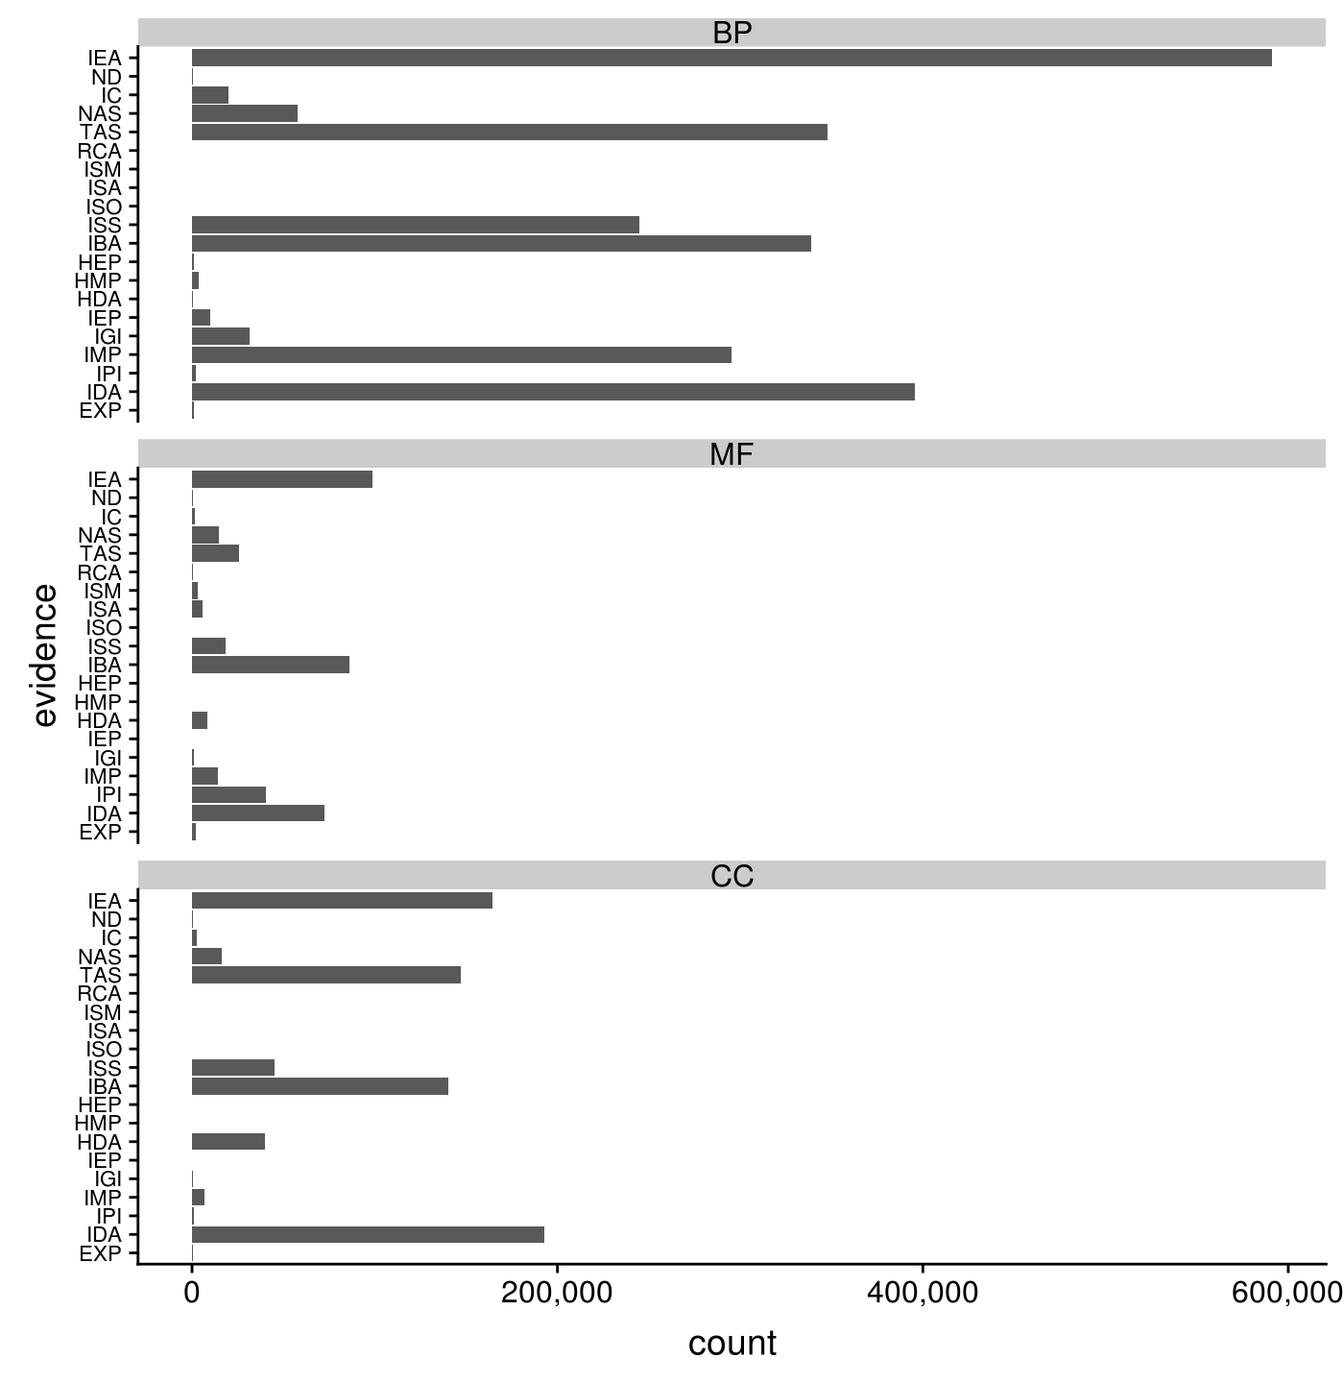
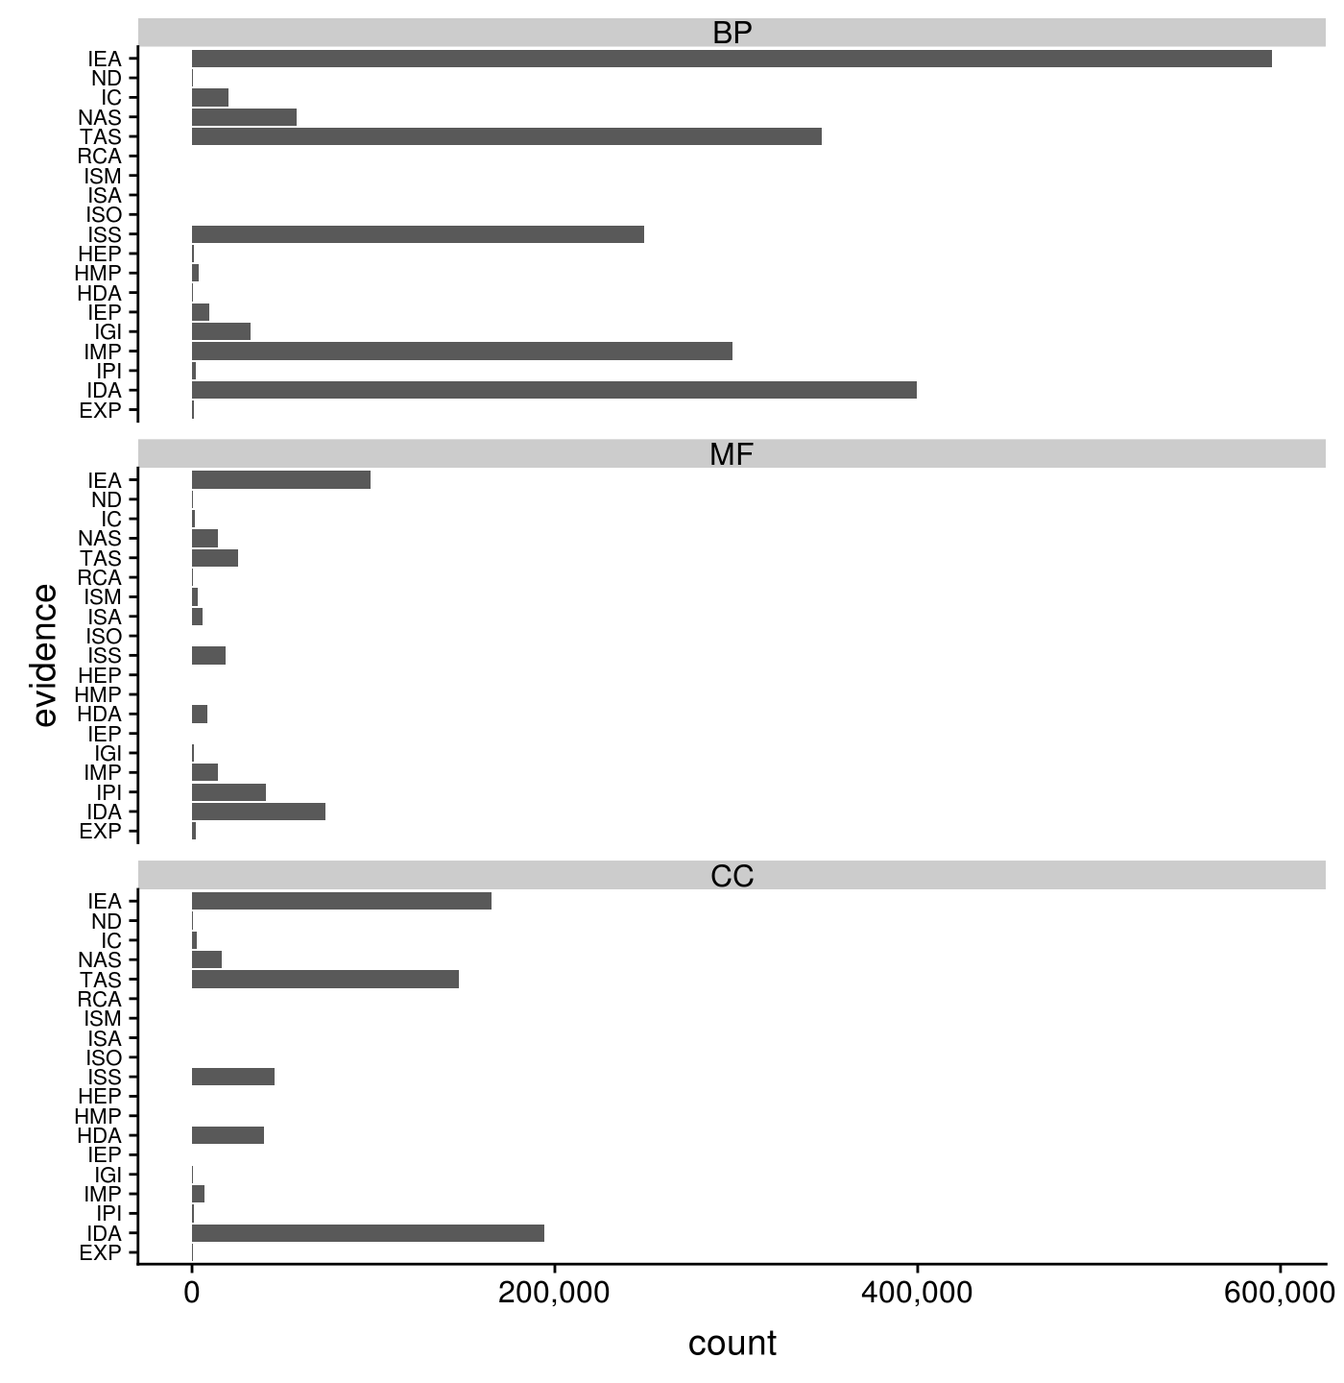
Built site for unisets: 0.99.0@9dbd08d

diff --git a/articles/unisets.html b/articles/unisets.html
@@ -94,7 +94,7 @@
       Fred Hutchinson Cancer Research Center, Seattle, WA, USA, 98115<br><a class="author_email" href="mailto:#"></a><a href="mailto:robert.amezquita@fredhutch.org">robert.amezquita@fredhutch.org</a>
       </address>
                   
-            <h4 class="date">22 April 2019</h4>
+            <h4 class="date">29 April 2019</h4>
       
       <small class="dont-index">Source: <a href="https://github.com/kevinrue/unisets/blob/master/vignettes/unisets.Rmd"><code>vignettes/unisets.Rmd</code></a></small>
       <div class="hidden name"><code>unisets.Rmd</code></div>
@@ -247,11 +247,11 @@
 <pre><code>## FuzzySets with 5 relations between 4 elements and 2 sets
 ##       element         set      extra1    extra2 membership
 ##   &lt;character&gt; &lt;character&gt; &lt;character&gt; &lt;numeric&gt;  &lt;numeric&gt;
-## 1           A    geneset1         ABC         0       0.77
-## 2           B    geneset1         ABC      0.25       0.17
-## 3           B    geneset2         ABC       0.5       0.62
-## 4           C    geneset2         DEF      0.75       0.74
-## 5           D    geneset2         DEF         1       0.45
+## 1           A    geneset1         ABC         0       0.85
+## 2           B    geneset1         ABC      0.25       0.48
+## 3           B    geneset2         ABC       0.5       0.76
+## 4           C    geneset2         DEF      0.75       0.29
+## 5           D    geneset2         DEF         1       0.75
 ## 
 ## @elementData
 ## IdVector of length 4 with 4 unique identifiers
@@ -264,28 +264,28 @@
 ## Metadata: SetStat1, SetInfo1 (2 columns)</code></pre>
 <p>The <code>membership</code> function associated with each relation can be directly obtained and modified using the corresponding accessor.</p>
 <div class="sourceCode" id="cb19"><pre class="sourceCode r"><code class="sourceCode r"><a class="sourceLine" id="cb19-1" data-line-number="1"><span class="kw"><a href="../reference/FuzzyHits-methods.html">membership</a></span>(fuzzy_sets)</a></code></pre></div>
-<pre><code>## [1] 0.77 0.17 0.62 0.74 0.45</code></pre>
+<pre><code>## [1] 0.85 0.48 0.76 0.29 0.75</code></pre>
 <p>Identically to <code>BaseSets</code>, the <code>relations</code> accessor returns fuzzy relations as <code>Hits</code>, while the <code>as</code> method may be used to format the information as a <code>DataFrame</code>, both of which include the <code>"membership"</code> column, as metadata column and nested under <code>"relationData"</code>, respectively.</p>
 <div class="sourceCode" id="cb21"><pre class="sourceCode r"><code class="sourceCode r"><a class="sourceLine" id="cb21-1" data-line-number="1"><span class="kw"><a href="../reference/BaseSets-methods.html">relations</a></span>(fuzzy_sets)</a></code></pre></div>
 <pre><code>## FuzzyHits object with 5 hits and 3 metadata columns:
 ##            from        to |      extra1    extra2 membership
 ##       &lt;integer&gt; &lt;integer&gt; | &lt;character&gt; &lt;numeric&gt;  &lt;numeric&gt;
-##   [1]         1         1 |         ABC         0       0.77
-##   [2]         2         1 |         ABC      0.25       0.17
-##   [3]         2         2 |         ABC       0.5       0.62
-##   [4]         3         2 |         DEF      0.75       0.74
-##   [5]         4         2 |         DEF         1       0.45
+##   [1]         1         1 |         ABC         0       0.85
+##   [2]         2         1 |         ABC      0.25       0.48
+##   [3]         2         2 |         ABC       0.5       0.76
+##   [4]         3         2 |         DEF      0.75       0.29
+##   [5]         4         2 |         DEF         1       0.75
 ##   -------
 ##   nLnode: 4 / nRnode: 2</code></pre>
 <div class="sourceCode" id="cb23"><pre class="sourceCode r"><code class="sourceCode r"><a class="sourceLine" id="cb23-1" data-line-number="1"><span class="kw">as</span>(fuzzy_sets, <span class="st">"DataFrame"</span>)</a></code></pre></div>
 <pre><code>## DataFrame with 5 rows and 5 columns
 ##      element        set  relationData elementData     setData
 ##   &lt;IdVector&gt; &lt;IdVector&gt;   &lt;DataFrame&gt; &lt;DataFrame&gt; &lt;DataFrame&gt;
-## 1          A   geneset1    ABC:0:0.77         1:a     100:abc
-## 2          B   geneset1 ABC:0.25:0.17         2:b     100:abc
-## 3          B   geneset2  ABC:0.5:0.62         2:b     200:def
-## 4          C   geneset2 DEF:0.75:0.74         3:c     200:def
-## 5          D   geneset2    DEF:1:0.45         4:d     200:def</code></pre>
+## 1          A   geneset1    ABC:0:0.85         1:a     100:abc
+## 2          B   geneset1 ABC:0.25:0.48         2:b     100:abc
+## 3          B   geneset2  ABC:0.5:0.76         2:b     200:def
+## 4          C   geneset2 DEF:0.75:0.29         3:c     200:def
+## 5          D   geneset2    DEF:1:0.75         4:d     200:def</code></pre>
 </div>
 <div id="the-gosets-class" class="section level2">
 <h2 class="hasAnchor">
@@ -315,16 +315,15 @@
 ## Metadata: SetStat1, SetInfo1 (2 columns)</code></pre>
 <p>Similarly, the <code>subset</code> method can be also applied to objects derived from <code>BaseSets</code>, such as <code>FuzzySets</code>, in which case the logical expression may also refer to the additional <code>"membership"</code> metadata that is guaranted by the class validity method.</p>
 <div class="sourceCode" id="cb27"><pre class="sourceCode r"><code class="sourceCode r"><a class="sourceLine" id="cb27-1" data-line-number="1"><span class="kw"><a href="https://www.rdocumentation.org/packages/base/topics/subset">subset</a></span>(fuzzy_sets, set <span class="op">==</span><span class="st"> "geneset2"</span> <span class="op">&amp;</span><span class="st"> </span>membership <span class="op">&gt;</span><span class="st"> </span><span class="fl">0.3</span>)</a></code></pre></div>
-<pre><code>## FuzzySets with 3 relations between 3 elements and 1 set
+<pre><code>## FuzzySets with 2 relations between 2 elements and 1 set
 ##       element         set      extra1    extra2 membership
 ##   &lt;character&gt; &lt;character&gt; &lt;character&gt; &lt;numeric&gt;  &lt;numeric&gt;
-## 1           B    geneset2         ABC       0.5       0.62
-## 2           C    geneset2         DEF      0.75       0.74
-## 3           D    geneset2         DEF         1       0.45
+## 1           B    geneset2         ABC       0.5       0.76
+## 2           D    geneset2         DEF         1       0.75
 ## 
 ## @elementData
-## IdVector of length 3 with 3 unique identifiers
-## Ids: B, C, D
+## IdVector of length 2 with 2 unique identifiers
+## Ids: B, D
 ## Metadata: GeneStat1, GeneInfo1 (2 columns)
 ## 
 ## @setData
@@ -368,9 +367,9 @@
 <a class="sourceLine" id="cb37-3" data-line-number="3">fuzzy_matrix</a></code></pre></div>
 <pre><code>##   geneset1 geneset2
 ## A     0.00       NA
-## B     0.17     0.62
-## C       NA     0.74
-## D       NA     0.45</code></pre>
+## B     0.48     0.76
+## C       NA     0.29
+## D       NA     0.75</code></pre>
 </div>
 </div>
 <div id="convert-from" class="section level1">
@@ -408,10 +407,10 @@
 ##       element         set membership
 ##   &lt;character&gt; &lt;character&gt;  &lt;numeric&gt;
 ## 1           A    geneset1          0
-## 2           B    geneset1       0.17
-## 3           B    geneset2       0.62
-## 4           C    geneset2       0.74
-## 5           D    geneset2       0.45
+## 2           B    geneset1       0.48
+## 3           B    geneset2       0.76
+## 4           C    geneset2       0.29
+## 5           D    geneset2       0.75
 ## 
 ## @elementData
 ## IdVector of length 4 with 4 unique identifiers
@@ -542,7 +541,7 @@
 <div id="session-info" class="section level1 unnumbered">
 <h1 class="hasAnchor">
 <a href="#session-info" class="anchor"></a>Session info</h1>
-<pre><code>## R Under development (unstable) (2019-04-21 r76409)
+<pre><code>## R Under development (unstable) (2019-04-29 r76435)
 ## Platform: x86_64-pc-linux-gnu (64-bit)
 ## Running under: Ubuntu 14.04.5 LTS
 ## 
@@ -563,13 +562,13 @@
 ## [8] methods   base     
 ## 
 ## other attached packages:
-## [1] unisets_0.99.0      S4Vectors_0.21.23   BiocGenerics_0.29.2
+## [1] unisets_0.99.0      S4Vectors_0.21.24   BiocGenerics_0.29.2
 ## [4] BiocStyle_2.11.0   
 ## 
 ## loaded via a namespace (and not attached):
 ##  [1] SummarizedExperiment_1.13.0 xfun_0.6                   
 ##  [3] reshape2_1.4.3              lattice_0.20-38            
-##  [5] htmltools_0.3.6             rtracklayer_1.43.3         
+##  [5] htmltools_0.3.6             rtracklayer_1.43.4         
 ##  [7] yaml_2.2.0                  blob_1.1.1                 
 ##  [9] XML_3.98-1.19               rlang_0.3.4                
 ## [11] pkgdown_1.3.0               DBI_1.0.0                  
@@ -581,7 +580,7 @@
 ## [23] evaluate_0.13               Biobase_2.43.1             
 ## [25] knitr_1.22                  IRanges_2.17.5             
 ## [27] GenomeInfoDb_1.19.3         AnnotationDbi_1.45.1       
-## [29] GSEABase_1.45.0             Rcpp_1.0.1                 
+## [29] GSEABase_1.45.1             Rcpp_1.0.1                 
 ## [31] xtable_1.8-4                backports_1.1.3            
 ## [33] BiocManager_1.30.4          DelayedArray_0.9.9         
 ## [35] desc_1.2.0                  graph_1.61.1               

diff --git a/articles/bioc-annotation.html b/articles/bioc-annotation.html
@@ -94,7 +94,7 @@
       Fred Hutchinson Cancer Research Center, Seattle, WA, USA, 98115<br><a class="author_email" href="mailto:#"></a><a href="mailto:robert.amezquita@fredhutch.org">robert.amezquita@fredhutch.org</a>
       </address>
                   
-            <h4 class="date">22 April 2019</h4>
+            <h4 class="date">29 April 2019</h4>
       
       <small class="dont-index">Source: <a href="https://github.com/kevinrue/unisets/blob/master/vignettes/bioc-annotation.Rmd"><code>vignettes/bioc-annotation.Rmd</code></a></small>
       <div class="hidden name"><code>bioc-annotation.Rmd</code></div>
@@ -129,7 +129,7 @@
 <div class="sourceCode" id="cb3"><pre class="sourceCode r"><code class="sourceCode r"><a class="sourceLine" id="cb3-1" data-line-number="1"><span class="kw"><a href="https://www.rdocumentation.org/packages/base/topics/library">library</a></span>(unisets)</a>
 <a class="sourceLine" id="cb3-2" data-line-number="2">go_sets &lt;-<span class="st"> </span><span class="kw"><a href="../reference/io.html">import</a></span>(org.Hs.egGO)</a>
 <a class="sourceLine" id="cb3-3" data-line-number="3">go_sets</a></code></pre></div>
-<pre><code>## GOSets with 317728 relations between 20456 elements and 18096 sets
+<pre><code>## GOSets with 267783 relations between 20207 elements and 17496 sets
 ##       element         set evidence ontology
 ##   &lt;character&gt; &lt;character&gt; &lt;factor&gt; &lt;factor&gt;
 ## 1           1  GO:0002576      TAS       BP
@@ -145,18 +145,18 @@
 ## 5   112441434  GO:0005515      IPI       MF
 ## 
 ## @elementData
-## EntrezIdVector of length 20456 with 20456 unique identifiers
+## EntrezIdVector of length 20207 with 20207 unique identifiers
 ## Ids: 1, 10, 100, 1000, ...
 ## Metadata:  (0 columns)
 ## 
 ## @setData
-## GOIdVector of length 18096 with 18096 unique identifiers
+## GOIdVector of length 17496 with 17496 unique identifiers
 ## Ids: GO:0002576, GO:0008150, GO:0043312, GO:0001869, ...
 ## Metadata: GOID, DEFINITION, ONTOLOGY, TERM (4 columns)</code></pre>
 <p>Notice how the <code>"element"</code> information is typed as <code>EntrezIdVector</code>, allowing the type of identifier to affect downstream methods (e.g., pathway analyses). The <code>EntrezIdVector</code> class directly inherits from the <code>IdVector</code> class, and benefits of all the methods associated with the parent class.</p>
 <p>It is also useful to note that the conversion of <code>Go3AnnDbBimap</code> Gene Ontology maps to <em><a href="https://github.com/kevinrue/unisets">unisets</a></em> objects automatically fetches metadata for each GO identifier from the <code>GO.db</code> package, if installed. The metadata is stored it in the <code>mcols</code> (metadata-columns) slot of the <code>setData</code> slot of the object returned. This metadata can be accessed using the accessor method of the same name.</p>
 <div class="sourceCode" id="cb5"><pre class="sourceCode r"><code class="sourceCode r"><a class="sourceLine" id="cb5-1" data-line-number="1"><span class="kw">mcols</span>(<span class="kw"><a href="../reference/BaseSets-methods.html">setData</a></span>(go_sets))[, <span class="kw"><a href="https://www.rdocumentation.org/packages/base/topics/c">c</a></span>(<span class="st">"ONTOLOGY"</span>, <span class="st">"TERM"</span>)]</a></code></pre></div>
-<pre><code>## DataFrame with 18096 rows and 2 columns
+<pre><code>## DataFrame with 17496 rows and 2 columns
 ##               ONTOLOGY
 ##            &lt;character&gt;
 ## GO:0002576          BP
@@ -165,9 +165,9 @@
 ## GO:0001869          BP
 ## GO:0007597          BP
 ## ...                ...
+## GO:0035716          MF
 ## GO:0047349          MF
 ## GO:0070567          MF
-## GO:0047547          MF
 ## GO:0047613          MF
 ## GO:0050337          MF
 ##                                                                    TERM
@@ -178,9 +178,9 @@
 ## GO:0001869 negative regulation of complement activation, lectin pathway
 ## GO:0007597                         blood coagulation, intrinsic pathway
 ## ...                                                                 ...
+## GO:0035716                      chemokine (C-C motif) ligand 12 binding
 ## GO:0047349          D-ribitol-5-phosphate cytidylyltransferase activity
 ## GO:0070567                                cytidylyltransferase activity
-## GO:0047547                         2-methylcitrate dehydratase activity
 ## GO:0047613                             aconitate decarboxylase activity
 ## GO:0050337                 thiosulfate-thiol sulfurtransferase activity</code></pre>
 <p>We may then visualize the distribution of set sizes, on a log<sub>10</sub> scale.</p>
@@ -198,7 +198,7 @@
 <pre><code>## Coercing evidence to factor</code></pre>
 <pre><code>## Coercing ontology to factor</code></pre>
 <div class="sourceCode" id="cb12"><pre class="sourceCode r"><code class="sourceCode r"><a class="sourceLine" id="cb12-1" data-line-number="1"><span class="kw"><a href="https://www.rdocumentation.org/packages/base/topics/format">format</a></span>(<span class="kw"><a href="https://www.rdocumentation.org/packages/base/topics/length">length</a></span>(go_sets), <span class="dt">big.mark=</span><span class="st">","</span>)</a></code></pre></div>
-<pre><code>## [1] "3,493,920"</code></pre>
+<pre><code>## [1] "2,946,160"</code></pre>
 <p>We can also examine the count of relations associated with each evidence code in each Gene Ontology namespace.</p>
 <div class="sourceCode" id="cb14"><pre class="sourceCode r"><code class="sourceCode r"><a class="sourceLine" id="cb14-1" data-line-number="1"><span class="kw"><a href="https://www.rdocumentation.org/packages/ggplot2/topics/ggplot">ggplot</a></span>(<span class="kw"><a href="../reference/BaseSets-methods.html">as.data.frame</a></span>(go_sets)) <span class="op">+</span></a>
 <a class="sourceLine" id="cb14-2" data-line-number="2"><span class="st">    </span><span class="kw"><a href="https://www.rdocumentation.org/packages/ggplot2/topics/geom_bar">geom_bar</a></span>(<span class="kw"><a href="https://www.rdocumentation.org/packages/ggplot2/topics/aes">aes</a></span>(evidence)) <span class="op">+</span><span class="st"> </span><span class="kw"><a href="https://www.rdocumentation.org/packages/ggplot2/topics/facet_wrap">facet_wrap</a></span>(<span class="op">~</span>ontology, <span class="dt">ncol =</span> <span class="dv">1</span>) <span class="op">+</span><span class="st"> </span><span class="kw"><a href="https://www.rdocumentation.org/packages/ggplot2/topics/coord_flip">coord_flip</a></span>() <span class="op">+</span></a>
@@ -211,7 +211,7 @@
 <div id="session-info" class="section level1 unnumbered">
 <h1 class="hasAnchor">
 <a href="#session-info" class="anchor"></a>Session info</h1>
-<pre><code>## R Under development (unstable) (2019-04-21 r76409)
+<pre><code>## R Under development (unstable) (2019-04-29 r76435)
 ## Platform: x86_64-pc-linux-gnu (64-bit)
 ## Running under: Ubuntu 14.04.5 LTS
 ## 
@@ -233,8 +233,8 @@
 ## 
 ## other attached packages:
 ##  [1] cowplot_0.9.4        ggplot2_3.1.1        unisets_0.99.0      
-##  [4] org.Hs.eg.db_3.8.0   AnnotationDbi_1.45.1 IRanges_2.17.5      
-##  [7] S4Vectors_0.21.23    Biobase_2.43.1       BiocGenerics_0.29.2 
+##  [4] org.Hs.eg.db_3.8.2   AnnotationDbi_1.45.1 IRanges_2.17.5      
+##  [7] S4Vectors_0.21.24    Biobase_2.43.1       BiocGenerics_0.29.2 
 ## [10] BiocStyle_2.11.0    
 ## 
 ## loaded via a namespace (and not attached):
@@ -247,10 +247,10 @@
 ## [13] GenomicRanges_1.35.1        XVector_0.23.2             
 ## [15] colorspace_1.4-1            htmltools_0.3.6            
 ## [17] Matrix_1.2-17               plyr_1.8.4                 
-## [19] GSEABase_1.45.0             XML_3.98-1.19              
+## [19] GSEABase_1.45.1             XML_3.98-1.19              
 ## [21] pkgconfig_2.0.2             bookdown_0.9               
 ## [23] zlibbioc_1.29.0             xtable_1.8-4               
-## [25] GO.db_3.8.0                 scales_1.0.0               
+## [25] GO.db_3.8.2                 scales_1.0.0               
 ## [27] BiocParallel_1.17.19        tibble_2.1.1               
 ## [29] annotate_1.61.1             withr_2.1.2                
 ## [31] SummarizedExperiment_1.13.0 lazyeval_0.2.2             
@@ -269,7 +269,7 @@
 ## [57] DBI_1.0.0                   roxygen2_6.1.1             
 ## [59] reshape2_1.4.3              R6_2.4.0                   
 ## [61] GenomicAlignments_1.19.1    knitr_1.22                 
-## [63] rtracklayer_1.43.3          bit_1.1-14                 
+## [63] rtracklayer_1.43.4          bit_1.1-14                 
 ## [65] commonmark_1.7              rprojroot_1.3-2            
 ## [67] desc_1.2.0                  stringi_1.4.3              
 ## [69] Rcpp_1.0.1                  xfun_0.6</code></pre>

diff --git a/reference/IdVector-class.html b/reference/IdVector-class.html
@@ -187,19 +187,19 @@ Subclasses of <code>IdVector</code> may be defined to enable method dispatch acc
 
 <span class='fu'><a href='https://www.rdocumentation.org/packages/base/topics/library'>library</a></span>(<span class='no'>org.Hs.eg.db</span>)
 <span class='no'>eiv</span> <span class='kw'>&lt;-</span> <span class='fu'>EntrezIdVector</span>(<span class='fu'>keys</span>(<span class='no'>org.Hs.eg.db</span>, <span class='kw'>keytype</span><span class='kw'>=</span><span class='st'>"ENTREZID"</span>))
-<span class='no'>eiv</span></div><div class='output co'>#&gt; EntrezIdVector of length 61526 with 61526 unique identifiers
+<span class='no'>eiv</span></div><div class='output co'>#&gt; EntrezIdVector of length 61521 with 61521 unique identifiers
 #&gt; Ids: 1, 2, 3, 9, ...</div><div class='input'>
 <span class='co'># EnsemblIdVector ----</span>
 
 <span class='fu'><a href='https://www.rdocumentation.org/packages/base/topics/library'>library</a></span>(<span class='no'>org.Hs.eg.db</span>)
 <span class='no'>eiv</span> <span class='kw'>&lt;-</span> <span class='fu'>EnsemblIdVector</span>(<span class='fu'>keys</span>(<span class='no'>org.Hs.eg.db</span>, <span class='kw'>keytype</span><span class='kw'>=</span><span class='st'>"ENSEMBL"</span>))
-<span class='no'>eiv</span></div><div class='output co'>#&gt; EnsemblIdVector of length 49589 with 49589 unique identifiers
-#&gt; Ids: ENSG00000121410, ENSPTRG00000009663, ENSG00000175899, ENSG00000256069, ...</div><div class='input'>
+<span class='no'>eiv</span></div><div class='output co'>#&gt; EnsemblIdVector of length 28694 with 28694 unique identifiers
+#&gt; Ids: ENSG00000121410, ENSG00000175899, ENSG00000256069, ENSG00000171428, ...</div><div class='input'>
 <span class='co'># GOIdVector ----</span>
 
 <span class='fu'><a href='https://www.rdocumentation.org/packages/base/topics/library'>library</a></span>(<span class='no'>org.Hs.eg.db</span>)
 <span class='no'>giv</span> <span class='kw'>&lt;-</span> <span class='fu'>GOIdVector</span>(<span class='fu'>keys</span>(<span class='no'>org.Hs.eg.db</span>, <span class='kw'>keytype</span> <span class='kw'>=</span> <span class='st'>"GO"</span>))
-<span class='no'>giv</span></div><div class='output co'>#&gt; GOIdVector of length 18096 with 18096 unique identifiers
+<span class='no'>giv</span></div><div class='output co'>#&gt; GOIdVector of length 17496 with 17496 unique identifiers
 #&gt; Ids: GO:0002576, GO:0003674, GO:0005576, GO:0005615, ...</div></pre>
   </div>
   <div class="col-md-3 hidden-xs hidden-sm" id="sidebar">

diff --git a/reference/io.html b/reference/io.html
@@ -233,7 +233,7 @@ Certain subclasses of <code>BiMap</code> are supported: <code>Go3AnnDbBimap</cod
 <span class='co'># Import (Go3AnnDbBimap) ----</span>
 
 <span class='fu'><a href='https://www.rdocumentation.org/packages/base/topics/library'>library</a></span>(<span class='no'>org.Hs.eg.db</span>)
-<span class='no'>bs1</span> <span class='kw'>&lt;-</span> <span class='fu'>import</span>(<span class='no'>org.Hs.egGO</span>)</div><div class='output co'>#&gt; <span class='message'>'select()' returned 1:1 mapping between keys and columns</span></div><div class='output co'>#&gt; <span class='message'>Coercing evidence to factor</span></div><div class='output co'>#&gt; <span class='message'>Coercing ontology to factor</span></div><div class='input'><span class='no'>bs1</span></div><div class='output co'>#&gt; GOSets with 317728 relations between 20456 elements and 18096 sets
+<span class='no'>bs1</span> <span class='kw'>&lt;-</span> <span class='fu'>import</span>(<span class='no'>org.Hs.egGO</span>)</div><div class='output co'>#&gt; <span class='message'>'select()' returned 1:1 mapping between keys and columns</span></div><div class='output co'>#&gt; <span class='message'>Coercing evidence to factor</span></div><div class='output co'>#&gt; <span class='message'>Coercing ontology to factor</span></div><div class='input'><span class='no'>bs1</span></div><div class='output co'>#&gt; GOSets with 267783 relations between 20207 elements and 17496 sets
 #&gt;       element         set evidence ontology
 #&gt;   &lt;character&gt; &lt;character&gt; &lt;factor&gt; &lt;factor&gt;
 #&gt; 1           1  GO:0002576      TAS       BP
@@ -249,12 +249,12 @@ Certain subclasses of <code>BiMap</code> are supported: <code>Go3AnnDbBimap</cod
 #&gt; 5   112441434  GO:0005515      IPI       MF
 #&gt; 
 #&gt; @elementData
-#&gt; EntrezIdVector of length 20456 with 20456 unique identifiers
+#&gt; EntrezIdVector of length 20207 with 20207 unique identifiers
 #&gt; Ids: 1, 10, 100, 1000, ...
 #&gt; Metadata:  (0 columns)
 #&gt; 
 #&gt; @setData
-#&gt; GOIdVector of length 18096 with 18096 unique identifiers
+#&gt; GOIdVector of length 17496 with 17496 unique identifiers
 #&gt; Ids: GO:0002576, GO:0008150, GO:0043312, GO:0001869, ...
 #&gt; Metadata: GOID, DEFINITION, ONTOLOGY, TERM (4 columns)</div></pre>
   </div>
